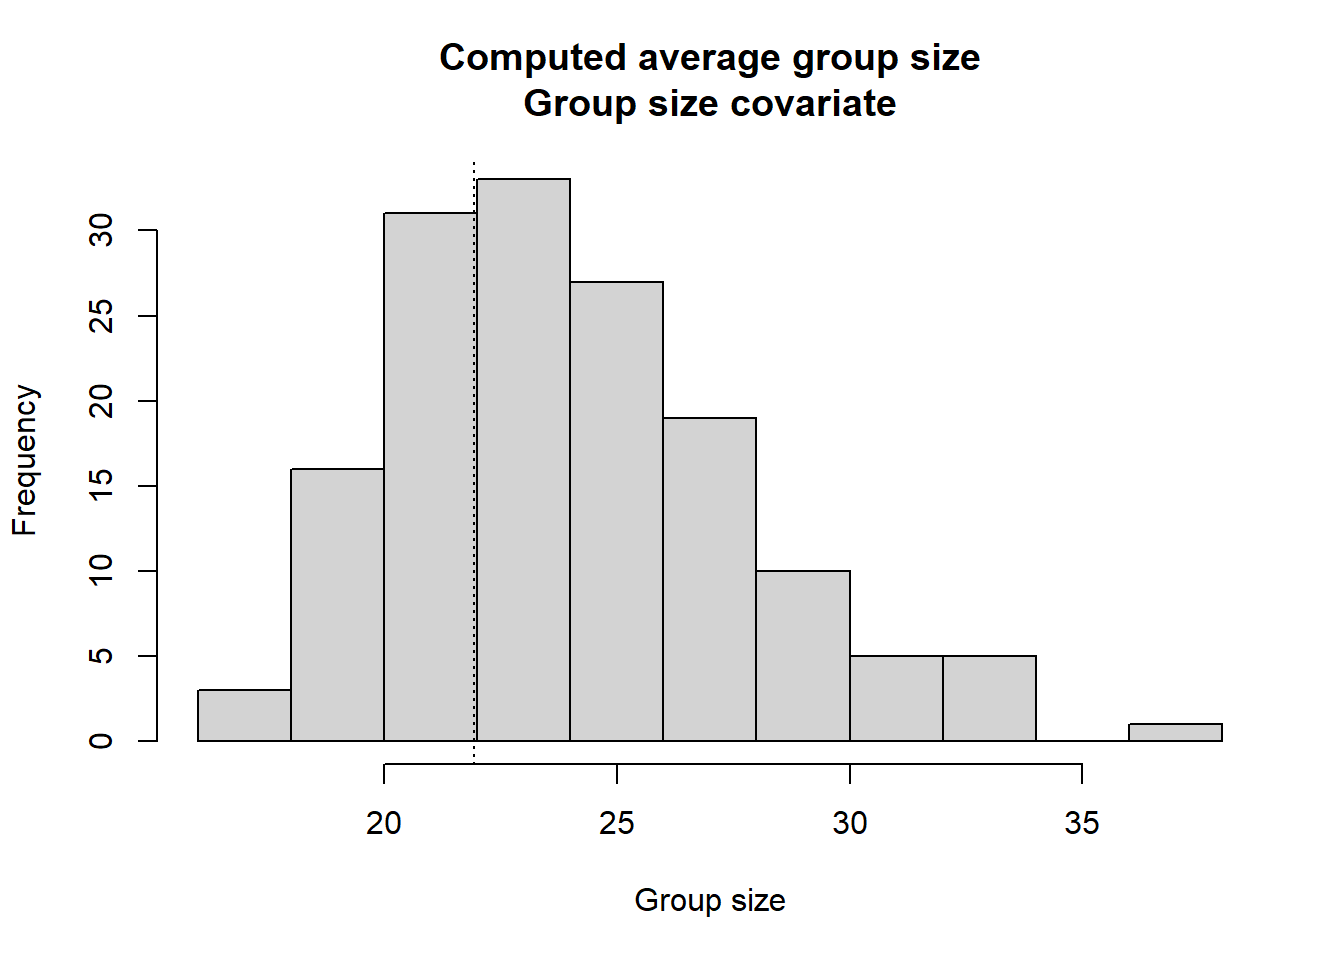
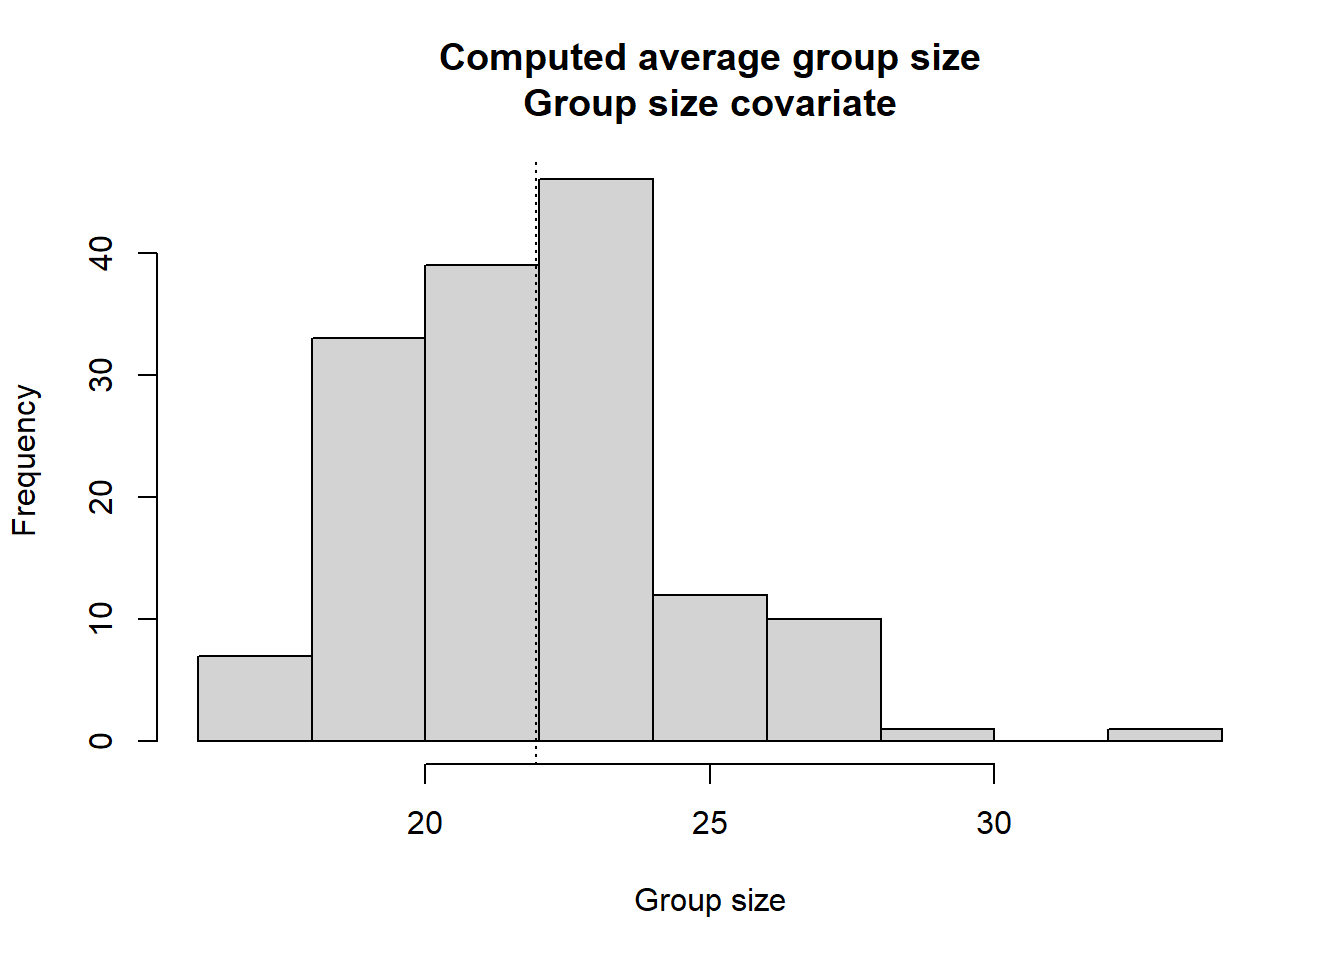
correct dsims for group size sim

diff --git a/docs/Pr8/Group-size-covariate.html b/docs/Pr8/Group-size-covariate.html
@@ -7,7 +7,7 @@
 <meta name="viewport" content="width=device-width, initial-scale=1.0, user-scalable=yes">
 
 <meta name="author" content="Centre for Research into Ecological and Environmental Modelling   University of St Andrews">
-<meta name="dcterms.date" content="2023-01-18">
+<meta name="dcterms.date" content="2023-05-08">
 
 <title>Distance sampling workshop - Size bias—how large is the problem?</title>
 <style>
@@ -129,7 +129,7 @@ code span.wa { color: #60a0b0; font-weight: bold; font-style: italic; } /* Warni
 <link rel="stylesheet" href="../styles.css">
 </head>
 
-<body class="nav-sidebar docked nav-fixed">
+<body class="nav-fixed">
 
 <div id="quarto-search-results"></div>
   <header id="quarto-header" class="headroom fixed-top">
@@ -174,7 +174,7 @@ code span.wa { color: #60a0b0; font-weight: bold; font-style: italic; } /* Warni
  <span class="menu-text">Strata</span></a>
   </li>  
   <li class="nav-item">
-    <a class="nav-link active" href="../Pr8/covariates.html" aria-current="page">
+    <a class="nav-link" href="../Pr8/covariates.html">
  <span class="menu-text">Covariates</span></a>
   </li>  
   <li class="nav-item">
@@ -190,49 +190,10 @@ code span.wa { color: #60a0b0; font-weight: bold; font-style: italic; } /* Warni
           </div> <!-- /navcollapse -->
       </div> <!-- /container-fluid -->
     </nav>
-  <nav class="quarto-secondary-nav" data-bs-toggle="collapse" data-bs-target="#quarto-sidebar" aria-controls="quarto-sidebar" aria-expanded="false" aria-label="Toggle sidebar navigation" onclick="if (window.quartoToggleHeadroom) { window.quartoToggleHeadroom(); }">
-    <div class="container-fluid d-flex justify-content-between">
-      <h1 class="quarto-secondary-nav-title">Size bias—how large is the problem?</h1>
-      <button type="button" class="quarto-btn-toggle btn" aria-label="Show secondary navigation">
-        <i class="bi bi-chevron-right"></i>
-      </button>
-    </div>
-  </nav>
 </header>
 <!-- content -->
 <div id="quarto-content" class="quarto-container page-columns page-rows-contents page-layout-article page-navbar">
 <!-- sidebar -->
-  <nav id="quarto-sidebar" class="sidebar collapse sidebar-navigation docked overflow-auto">
-    <div class="sidebar-menu-container"> 
-    <ul class="list-unstyled mt-1">
-        <li class="sidebar-item">
-  <div class="sidebar-item-container"> 
-  <a href="../Pr8/covariates.html" class="sidebar-item-text sidebar-link">Covariates practical 8</a>
-  </div>
-</li>
-        <li class="sidebar-item">
-  <div class="sidebar-item-container"> 
-  <a href="../Pr8/Pr8-instructions.html" class="sidebar-item-text sidebar-link">Covariates in detection function model</a>
-  </div>
-</li>
-        <li class="sidebar-item">
-  <div class="sidebar-item-container"> 
-  <a href="../Pr8/Group-size-covariate.html" class="sidebar-item-text sidebar-link active">Size bias—how large is the problem?</a>
-  </div>
-</li>
-        <li class="sidebar-item">
-  <div class="sidebar-item-container"> 
-  <a href="../Pr8/alternative-selection-metrics.html" class="sidebar-item-text sidebar-link">Other model selection metrics</a>
-  </div>
-</li>
-        <li class="sidebar-item">
-  <div class="sidebar-item-container"> 
-  <a href="../Pr8/Prac8_solution.html" class="sidebar-item-text sidebar-link">Covariates in the detection function <strong>solution</strong></a>
-  </div>
-</li>
-    </ul>
-    </div>
-</nav>
 <!-- margin-sidebar -->
     <div id="quarto-margin-sidebar" class="sidebar margin-sidebar">
         <nav id="TOC" role="doc-toc" class="toc-active">
@@ -259,7 +220,7 @@ code span.wa { color: #60a0b0; font-weight: bold; font-style: italic; } /* Warni
 
 <header id="title-block-header" class="quarto-title-block default">
 <div class="quarto-title">
-<h1 class="title d-none d-lg-block">Size bias—how large is the problem?</h1>
+<h1 class="title">Size bias—how large is the problem?</h1>
 </div>
 
 
@@ -276,7 +237,7 @@ code span.wa { color: #60a0b0; font-weight: bold; font-style: italic; } /* Warni
     <div>
     <div class="quarto-title-meta-heading">Published</div>
     <div class="quarto-title-meta-contents">
-      <p class="date">January 18, 2023</p>
+      <p class="date">May 8, 2023</p>
     </div>
   </div>
   
@@ -344,15 +305,15 @@ Supplement
 <pre><code>Summary of warnings and errors:</code></pre>
 </div>
 <div class="cell-output cell-output-stderr">
-<pre><code>Error: No models could be fitted. (Model number: 1) (occurred 1 time(s) in repetition(s):  80)</code></pre>
+<pre><code>Error: No models could be fitted. (Model number: 1) (occurred 1 time(s) in repetition(s):  40)</code></pre>
 </div>
 <div class="cell-output cell-output-stderr">
 <pre><code>simpleWarning in ddf.ds(model = dsmodel, data, meta.data = meta.data, control = control, : Model fitting did not converge. Try different initial values or different model
 
- (Model number: 1) (occurred 1 time(s) in repetition(s):  80)</code></pre>
+ (Model number: 1) (occurred 1 time(s) in repetition(s):  40)</code></pre>
 </div>
 <div class="cell-output cell-output-stderr">
-<pre><code>None of the models converged for this dataset. (occurred 1 time(s) in repetition(s):  80)</code></pre>
+<pre><code>None of the models converged for this dataset. (occurred 1 time(s) in repetition(s):  40)</code></pre>
 </div>
 <div class="cell-output cell-output-stderr">
 <pre><code>-----</code></pre>
@@ -363,7 +324,7 @@ Supplement
 <p><img src="Group-size-covariate_files/figure-html/small-with-covar-1.png" class="img-fluid" width="768"></p>
 </div>
 </div>
-<p>The distribution of computed average group size centred on the true size of 10 and there was no problem with fitting a detection function. The average over the simulations estimated number of individuals was 2246.52.</p>
+<p>The distribution of computed average group size centred on the true size of 10 and there was no problem with fitting a detection function. The average over the simulations estimated number of individuals was 1984.65.</p>
 </section>
 <section id="analysis-without-group-size-covariate" class="level2">
 <h2 class="anchored" data-anchor-id="analysis-without-group-size-covariate">Analysis without group size covariate</h2>
@@ -373,12 +334,12 @@ Supplement
 <p><img src="Group-size-covariate_files/figure-html/nocov-10-1.png" class="img-fluid" width="768"></p>
 </div>
 </div>
-<p>The distribution of computed average groups sizes is shown above. We would expect an overestimate of mean group size because small groups at large distances are missing from our sample; but that effect is small in this instance. As a consequence, the average <span class="math inline">\(\hat{N}_{indiv}\)</span> across all simulations is 2307.19.</p>
+<p>The distribution of computed average groups sizes is shown above. We would expect an overestimate of mean group size because small groups at large distances are missing from our sample; but that effect is small in this instance. As a consequence, the average <span class="math inline">\(\hat{N}_{indiv}\)</span> across all simulations is 2004.91.</p>
 </section>
 </section>
 <section id="example-2-possible-dolphin-pods-or-seabird-rafts" class="level1">
 <h1>Example 2: Possible dolphin pods or seabird rafts</h1>
-<p>I use a different distribution to mimic the group size distribution. A log normal distribution (you heard about it during the <strong>precision</strong> lecture) is like a normal distribution that has had its right tail pulled out.</p>
+<p>I use a different distribution to mimic the group size distribution. A log normal distribution (you heard about it during the <strong>precision</strong> lecture) is like a normal distribution that has had its right tail pulled out. In all other respects the survey is the same (same design, etc.)</p>
 <p>The <em>median</em> of this distribution is 12 (not far from 10 in the previous example), but because of the right tail, the <em>mean</em> is 21.9. This changes the true number of individuals in the population to 200*21.9=4388</p>
 <div class="cell" data-fig.margin="true">
 <div class="cell-output-display">
@@ -386,6 +347,23 @@ Supplement
 </div>
 <div class="cell-output-display">
 <p><img src="Group-size-covariate_files/figure-html/lognor-with-2.png" class="img-fluid" width="672"></p>
+</div>
+<div class="cell-output cell-output-stderr">
+<pre><code>Summary of warnings and errors:</code></pre>
+</div>
+<div class="cell-output cell-output-stderr">
+<pre><code>Error: No models could be fitted. (Model number: 1) (occurred 1 time(s) in repetition(s):  129)</code></pre>
+</div>
+<div class="cell-output cell-output-stderr">
+<pre><code>simpleWarning in ddf.ds(model = dsmodel, data, meta.data = meta.data, control = control, : Model fitting did not converge. Try different initial values or different model
+
+ (Model number: 1) (occurred 1 time(s) in repetition(s):  129)</code></pre>
+</div>
+<div class="cell-output cell-output-stderr">
+<pre><code>None of the models converged for this dataset. (occurred 1 time(s) in repetition(s):  129)</code></pre>
+</div>
+<div class="cell-output cell-output-stderr">
+<pre><code>-----</code></pre>
 </div>
 </div>
 <p>How about “missingness” of small groups at large distances?</p>
@@ -401,7 +379,7 @@ Supplement
 <p><img src="Group-size-covariate_files/figure-html/unnamed-chunk-11-1.png" class="img-fluid" width="672"></p>
 </div>
 </div>
-<p>When including <code>size</code> as a covariate, estimates of average group size are not affected (figure above). Likewise, mean <span class="math inline">\(\hat{N}_{indiv}\)</span> is effectively unbiased: 5640.44.</p>
+<p>When including <code>size</code> as a covariate, estimates of average group size are not affected (figure above). Likewise, mean <span class="math inline">\(\hat{N}_{indiv}\)</span> is effectively unbiased: 4407.68.</p>
 </section>
 <section id="analysis-without-the-covariate" class="level2">
 <h2 class="anchored" data-anchor-id="analysis-without-the-covariate">Analysis without the covariate</h2>
@@ -410,7 +388,7 @@ Supplement
 <p><img src="Group-size-covariate_files/figure-html/lognor-without-1.png" class="img-fluid" width="672"></p>
 </div>
 </div>
-<p>Now mean <span class="math inline">\(\hat{N}_{indiv}\)</span> is <strong>considerably biased</strong>: 5802.93, 32.2 percent larger than the true number of individuals in the population, 4388.</p>
+<p>Now mean <span class="math inline">\(\hat{N}_{indiv}\)</span> is <strong>considerably biased</strong>: 5373.25, 22.5 percent larger than the true number of individuals in the population, 4388.</p>
 <div class="cell">
 <div class="cell-output-display">
 <p><img src="Group-size-covariate_files/figure-html/unnamed-chunk-13-1.png" class="img-fluid" width="672"></p>
